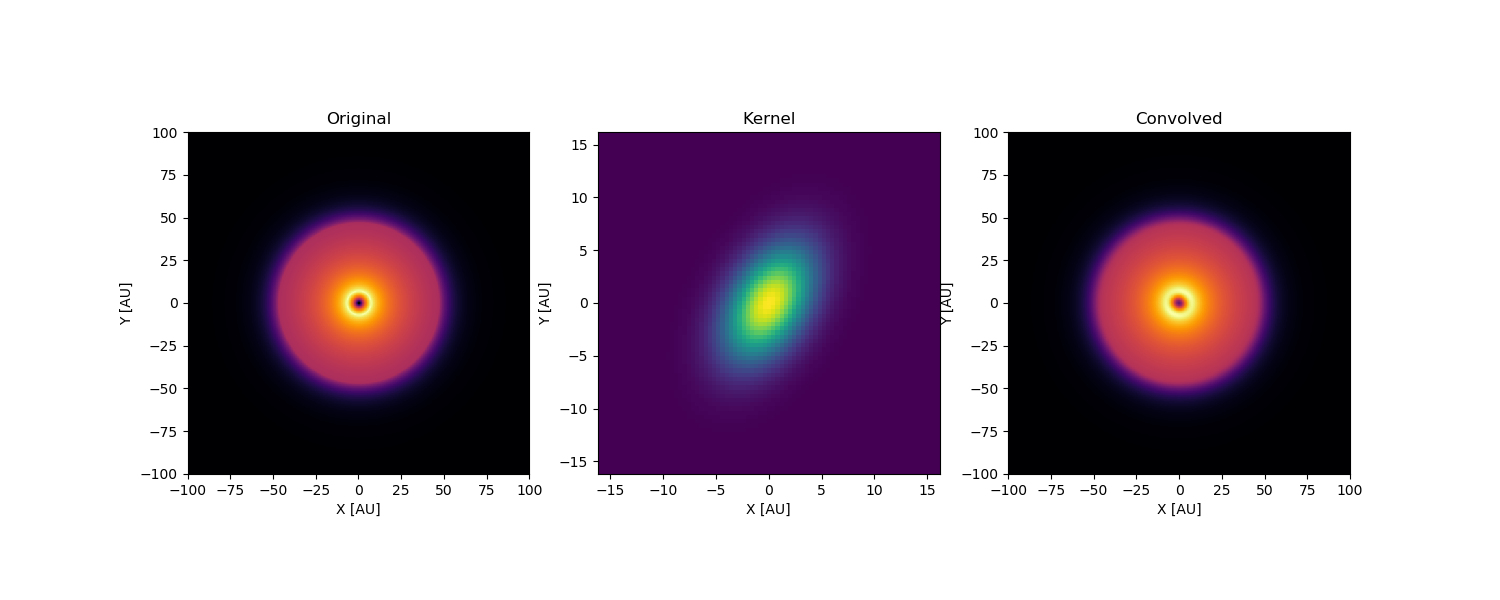
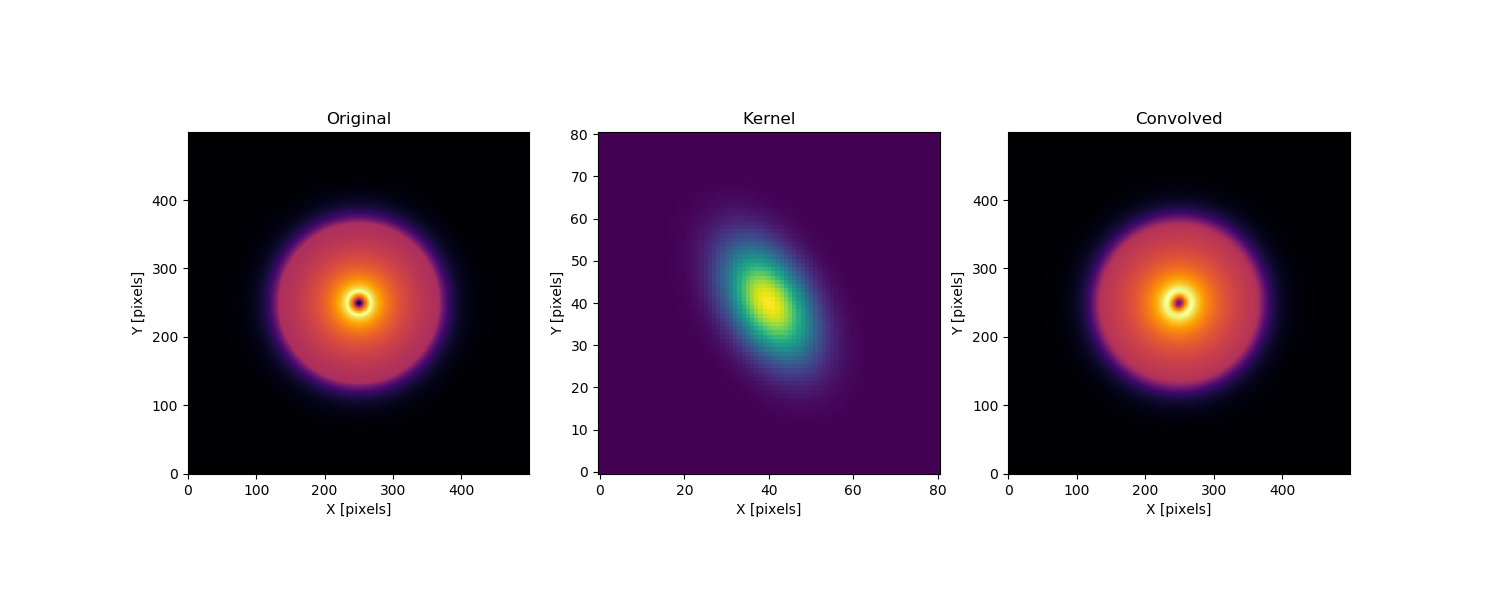
RA, DEC coordinates

diff --git a/code/main.py b/code/main.py
@@ -4,8 +4,6 @@ import os, sys
 import numpy as np
 import matplotlib.pyplot as plt
 
-from astropy.io import fits
-
 root_directory = os.path.dirname(os.path.dirname(os.path.realpath(__file__)))
 data_directory = os.path.join(root_directory, "data")
 ALMA_directory = os.path.join(data_directory, "ALMA-HD100546")
@@ -21,32 +19,31 @@ if __name__ == "__main__":
     HD100546_PA = 139.1 * degreesToRadian #radian
 
     ALMA_filenames = os.listdir(ALMA_directory)
-    relevant_headers = ["BMAJ", "BMIN", "BPA", "CDELT1"]
-    descriptions = ["beamSemiMajor", "beamSemiMinor", "beamPA", "pixelScale"]
+    relevant_headers = ["BMAJ", "BMIN", "BPA", "CDELT2"]
+    descriptions = ["beamSemiMajor", "beamSemiMinor", "beamPA", "degreesPixelScale"]
 
     ALMA_data = getFitsData(ALMA_filenames, ALMA_directory, relevant_headers, descriptions)
     printFitsData(ALMA_filenames, ALMA_data)
 
-    file_index = 1
+    file_index = 0
+
     data = ALMA_data[file_index]
     image = data[0]
     header = data[1]
+    wcs = data[2]
 
-    pixelScale = abs(header["pixelScale"]) # degrees per pixel
+    pixelScale = abs(header["degreesPixelScale"]) # degrees per pixel
     major_axis = (header["beamSemiMajor"] * 2) / pixelScale # pixels
     minor_axis = (header["beamSemiMinor"] * 2) / pixelScale # pixels
-    perp_angle = (header["beamPA"] + 90) * degreesToRadian # radian
+    convolve_angle = header['beamPA'] * degreesToRadian # radian
 
-    convolved_image = convolveImageGaussian2D(image, major_axis, minor_axis, perp_angle)
+    convolved_image = convolveImageGaussian2D(image, major_axis, minor_axis, convolve_angle)
 
-    plotFitsImage(image, f"Original image ({ALMA_filenames[file_index]})")
-    plotFitsImage(convolved_image, f"Convolved image ({ALMA_filenames[file_index]})\nmajor:{major_axis:.2f} px, minor:{minor_axis:.2f} px, angle:{(perp_angle / np.pi):.2f} πrad")
-
+    plotFitsImage(image, wcs, f"Original image ({ALMA_filenames[file_index]})")
+    plotFitsImage(convolved_image, wcs, f"Convolved image ({ALMA_filenames[file_index]})\nmajor:{major_axis:.2f} px, minor:{minor_axis:.2f} px, angle:{(convolve_angle / np.pi):.2f} πrad")
+    #
     eccentricity = np.sin(HD100546_i)
 
-    semi_major = major_axis
-    plotEllipseImage(convolved_image, semi_major, eccentricity, HD100546_PA)
-
-    plotEllipseProfile(convolved_image, eccentricity, HD100546_PA)
+    plotEllipseProfile(convolved_image, eccentricity, HD100546_PA - (np.pi / 2))
 
     plt.show()

diff --git a/code/convolution.py b/code/convolution.py
@@ -20,28 +20,8 @@ def convolveImageGaussian2D(image, major, minor, theta):
     sigma_x = major / FWHM_factor
     sigma_y = minor / FWHM_factor
 
-    kernel = Gaussian2DKernel(sigma_x, sigma_y, -theta)
+    kernel = Gaussian2DKernel(sigma_x, sigma_y, theta)
     convolved_image = convolve(image, kernel)
-
-    # plt.figure("image convolution", figsize=(15, 6))
-    #
-    # ax1 = plt.subplot(1, 3, 1)
-    # ax1.imshow(image, cmap="inferno")
-    # ax1.set_title("Original")
-    # ax1.set_xlabel("X [pixels]")
-    # ax1.set_ylabel("Y [pixels]")
-    #
-    # ax2 = plt.subplot(1, 3, 2)
-    # ax2.imshow(kernel, cmap="viridis")
-    # ax2.set_title(f"Kernel")
-    # ax2.set_xlabel("X [pixels]")
-    # ax2.set_ylabel("Y [pixels]")
-    #
-    # ax3 = plt.subplot(1, 3, 3)
-    # ax3.imshow(convolved_image, cmap="inferno")
-    # ax3.set_title("Convolved")
-    # ax3.set_xlabel("X [pixels]")
-    # ax3.set_ylabel("Y [pixels]")
 
     return convolved_image
 
@@ -68,22 +48,22 @@ if __name__ == "__main__":
     plt.figure("image convolution", figsize=(15, 6))
 
     ax1 = plt.subplot(1, 3, 1)
-    ax1.imshow(image, cmap="inferno", extent = [-R_outer, R_outer, -R_outer, R_outer])
+    ax1.imshow(image, origin="lower", cmap="inferno")
     ax1.set_title("Original")
-    ax1.set_xlabel("X [AU]")
-    ax1.set_ylabel("Y [AU]")
+    ax1.set_xlabel("X [pixels]")
+    ax1.set_ylabel("Y [pixels]")
 
     ax2 = plt.subplot(1, 3, 2)
-    ax2.imshow(kernel, cmap="viridis", extent = [-R_kernel, R_kernel, -R_kernel, R_kernel])
+    ax2.imshow(kernel, origin="lower", cmap="viridis")
     ax2.set_title(f"Kernel")
-    ax2.set_xlabel("X [AU]")
-    ax2.set_ylabel("Y [AU]")
+    ax2.set_xlabel("X [pixels]")
+    ax2.set_ylabel("Y [pixels]")
 
     ax3 = plt.subplot(1, 3, 3)
-    ax3.imshow(convolved_image, cmap="inferno", extent = [-R_outer, R_outer, -R_outer, R_outer])
+    ax3.imshow(convolved_image, origin="lower", cmap="inferno")
     ax3.set_title("Convolved")
-    ax3.set_xlabel("X [AU]")
-    ax3.set_ylabel("Y [AU]")
+    ax3.set_xlabel("X [pixels]")
+    ax3.set_ylabel("Y [pixels]")
 
     plt.savefig(figures_directory + pyName() + ".png")
 

diff --git a/code/fitsFiles.py b/code/fitsFiles.py
@@ -5,25 +5,27 @@ import numpy as np
 import matplotlib.pyplot as plt
 
 from astropy.io import fits
+from astropy.wcs import WCS
 
 root_directory = os.path.dirname(os.path.dirname(os.path.realpath(__file__)))
 data_directory = os.path.join(root_directory, "data")
 
-def plotFitsImage(image, filename):
+def plotFitsImage(image, wcs, filename):
     """
     Plot a 2D image of a nd numpy array
     """
 
-    plt.figure()
+    fig = plt.figure()
+    fig.add_subplot(111, projection=wcs)
 
-    plt.imshow(image, cmap="inferno")
+    plt.imshow(image, origin="lower", cmap="magma")
 
     cbar = plt.colorbar()
     cbar.set_label("Intensity")
 
     plt.title(f"{filename}")
-    plt.xlabel("X [pixels]")
-    plt.ylabel("Y [pixels]")
+    plt.xlabel("RA")
+    plt.ylabel("Dec")
 
 def getFitsData(filenames, directory_path, headers, descriptions):
 
@@ -42,13 +44,17 @@ def getFitsData(filenames, directory_path, headers, descriptions):
             for header_name, description in zip(headers, descriptions):
                 header_data[description] = file[0].header[header_name]
 
+            # Get the world coordinate system data from the header
+            wcs = WCS(file[0].header, naxis = 2)
+
             # Add the data to the list
-            data.append([image_data, header_data])
+            data.append([image_data, header_data, wcs])
 
     return data
 
 def printFitsData(filenames, data):
 
+    print("\n----------------------------------------------------------------------------")
     print("Data extracted from FITS files\n")
 
     for filename, data in zip(filenames, data):
@@ -57,4 +63,6 @@ def printFitsData(filenames, data):
         for header, value in data[1].items():
             print(f"{header}: {value}")
 
-        print()
+        print(f"\n{data[2]}\n")
+
+    print("----------------------------------------------------------------------------")
